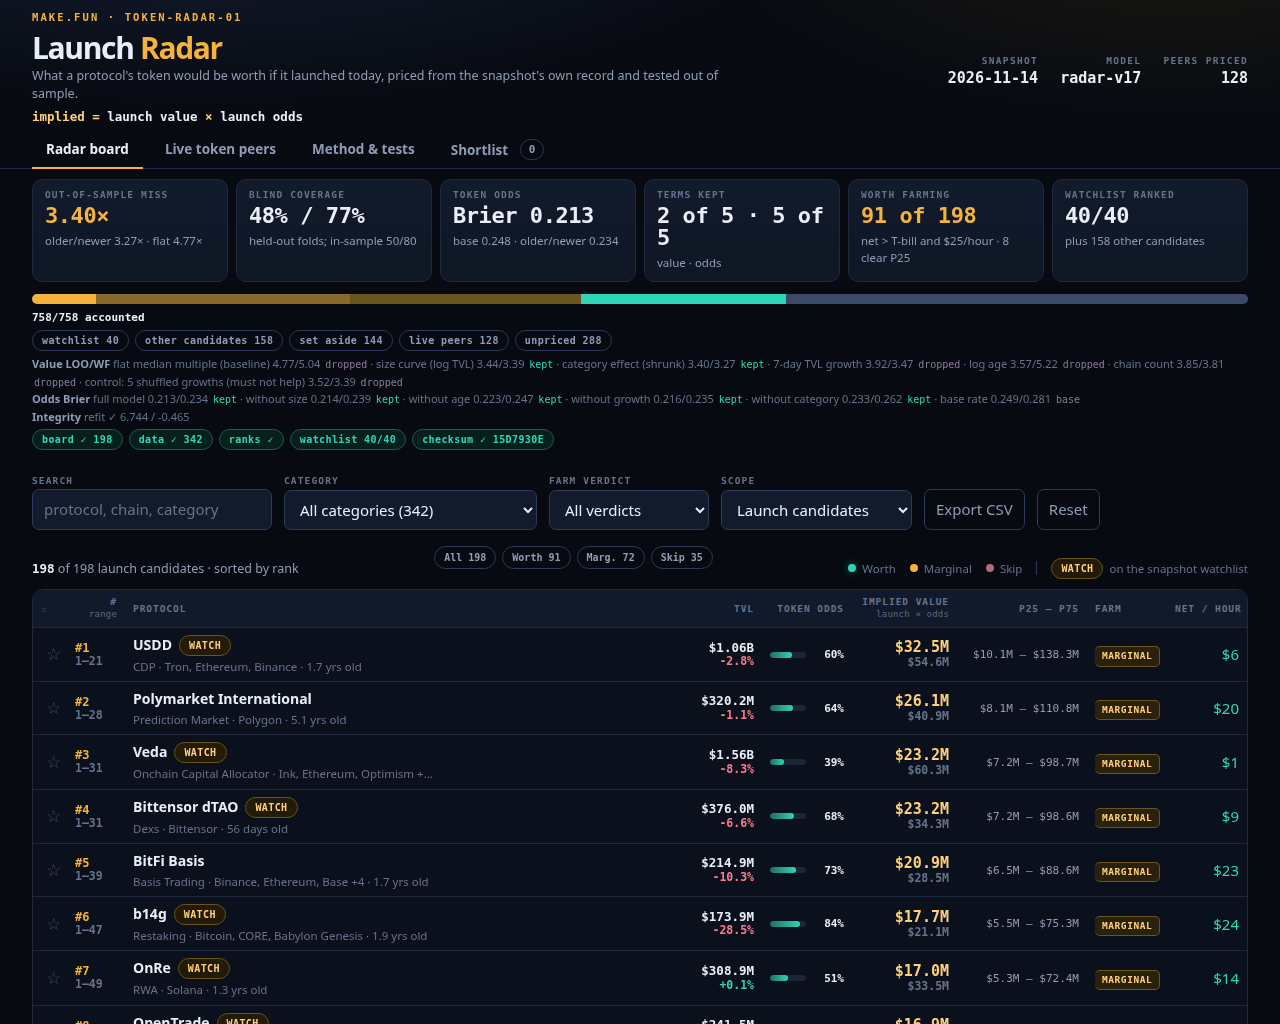
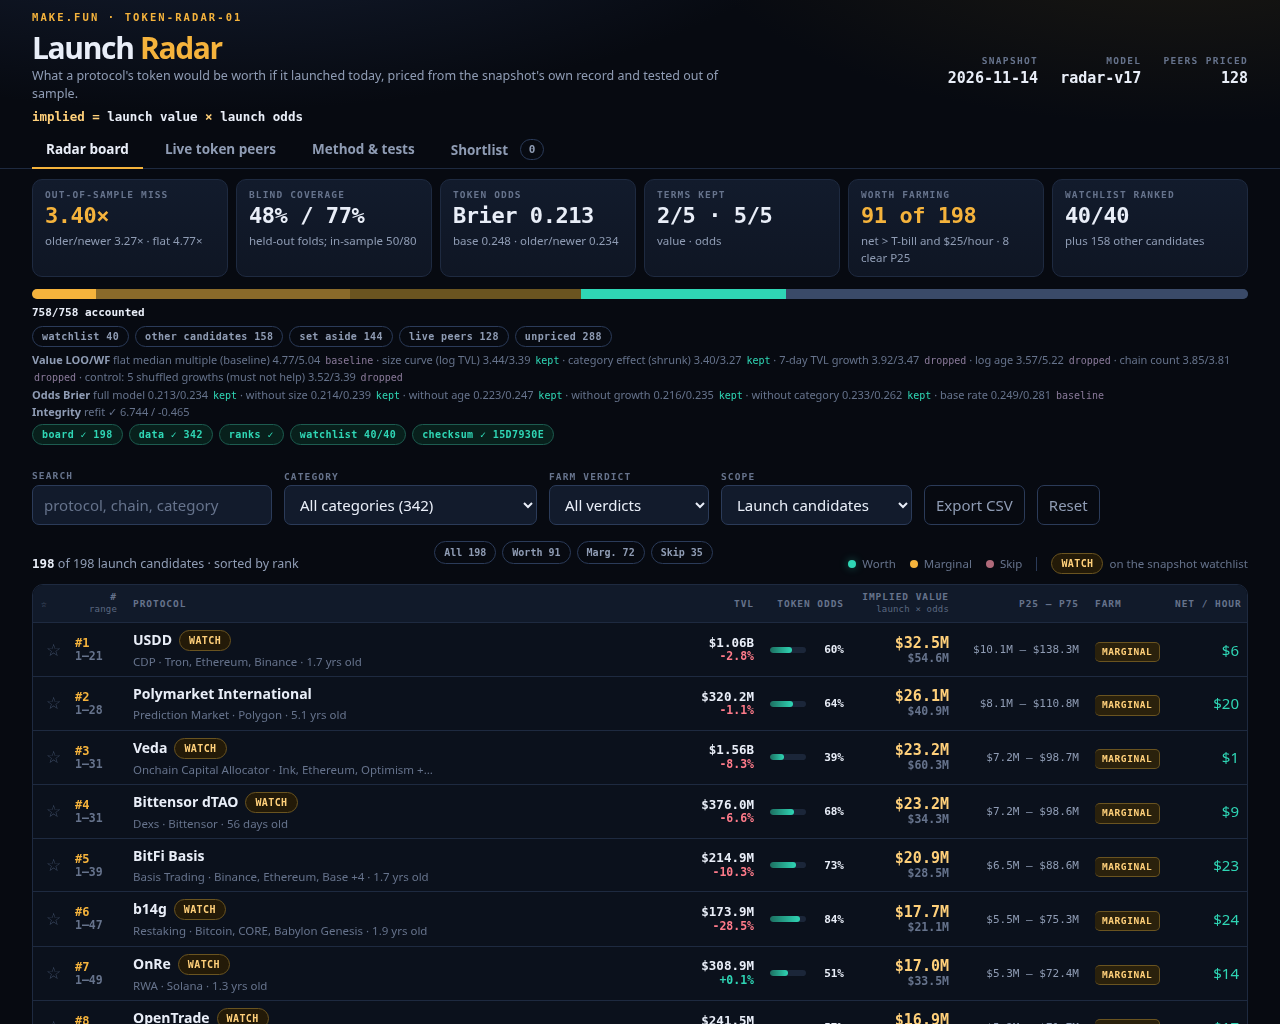
Polish v17 labels and integrity evidence

diff --git a/dashboard/app.js b/dashboard/app.js
@@ -173,7 +173,7 @@ vline.appendChild(el('b', null, 'Value LOO/WF '));
 v.terms.forEach(function (t, i) {
 if (i) vline.appendChild(document.createTextNode(' · '));
 vline.appendChild(document.createTextNode(t.term + ' ' + t.loo.toFixed(2) + '/' + t.wf.toFixed(2) + ' '));
-vline.appendChild(el('i', t.kept ? 'up' : 'flat', t.kept ? 'kept' : 'dropped'));
+vline.appendChild(el('i', t.kept ? 'up' : /baseline/.test(t.term) ? 'flat' : 'flat', t.kept ? 'kept' : /baseline/.test(t.term) ? 'baseline' : 'dropped'));
 });
 contract.appendChild(vline);
 var oline = el('div', 'evLine');
@@ -181,7 +181,7 @@ oline.appendChild(el('b', null, 'Odds Brier '));
 o.terms.forEach(function (t, i) {
 if (i) oline.appendChild(document.createTextNode(' · '));
 oline.appendChild(document.createTextNode(t.term + ' ' + t.loo.toFixed(3) + '/' + t.wf.toFixed(3) + ' '));
-oline.appendChild(el('i', t.kept ? 'up' : 'flat', t.kept ? 'kept' : 'base'));
+oline.appendChild(el('i', t.kept ? 'up' : 'flat', t.kept ? 'kept' : /base rate/.test(t.term) ? 'baseline' : 'base'));
 });
 contract.appendChild(oline);
 var cline = el('div', 'evLine');

diff --git a/docs/CHANGELOG.md b/docs/CHANGELOG.md
@@ -196,5 +196,5 @@ Rebuilt the model to the standard the leader's public artifact showed:
 - `board.json` is now the 198 candidates only, with candidate ranks; the 342-row UI keeps
   the set-aside records for filters. Accounting groups are mutually exclusive and sum 758.
   The integrity row checks board, data, ranks, watchlist and checksum; all pass.
-- Gate: dashboard source 64,123 / 65,536; dossier text under cap; verify.mjs all pass;
+- Gate: dashboard source 64,237 / 65,536; dossier text under cap; verify.mjs all pass;
   not submitted. The final pick remains v5 at 942,846.
